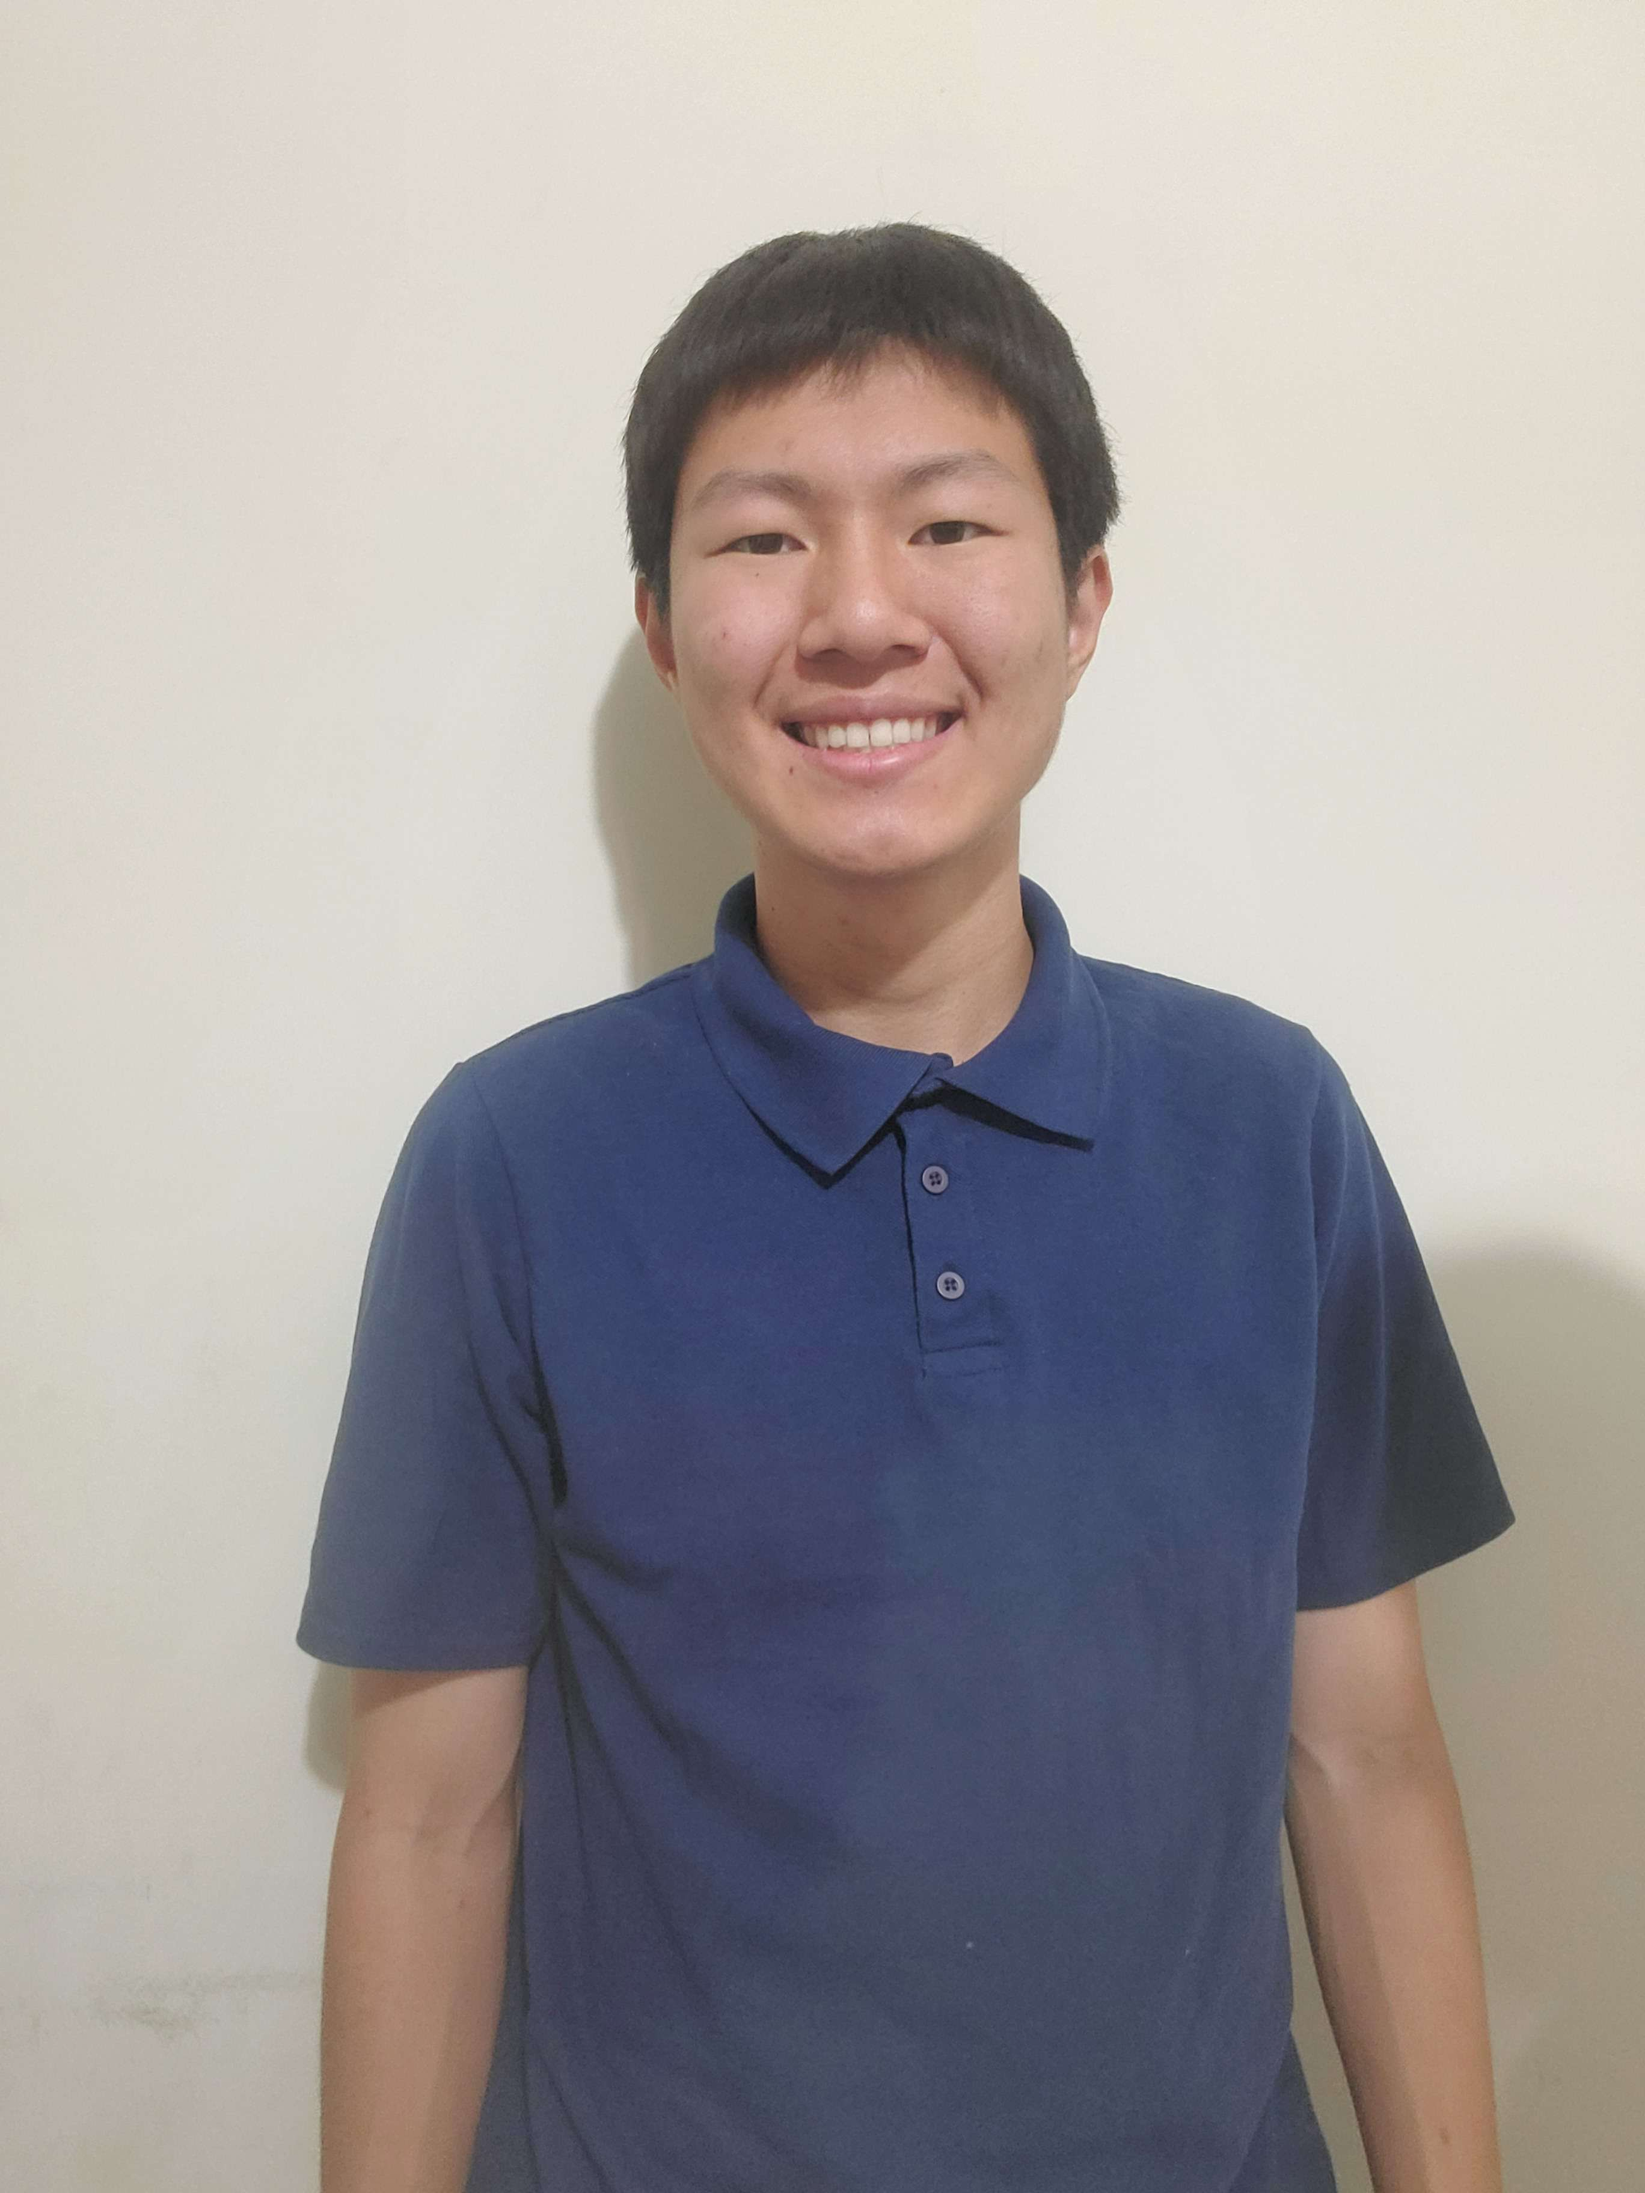
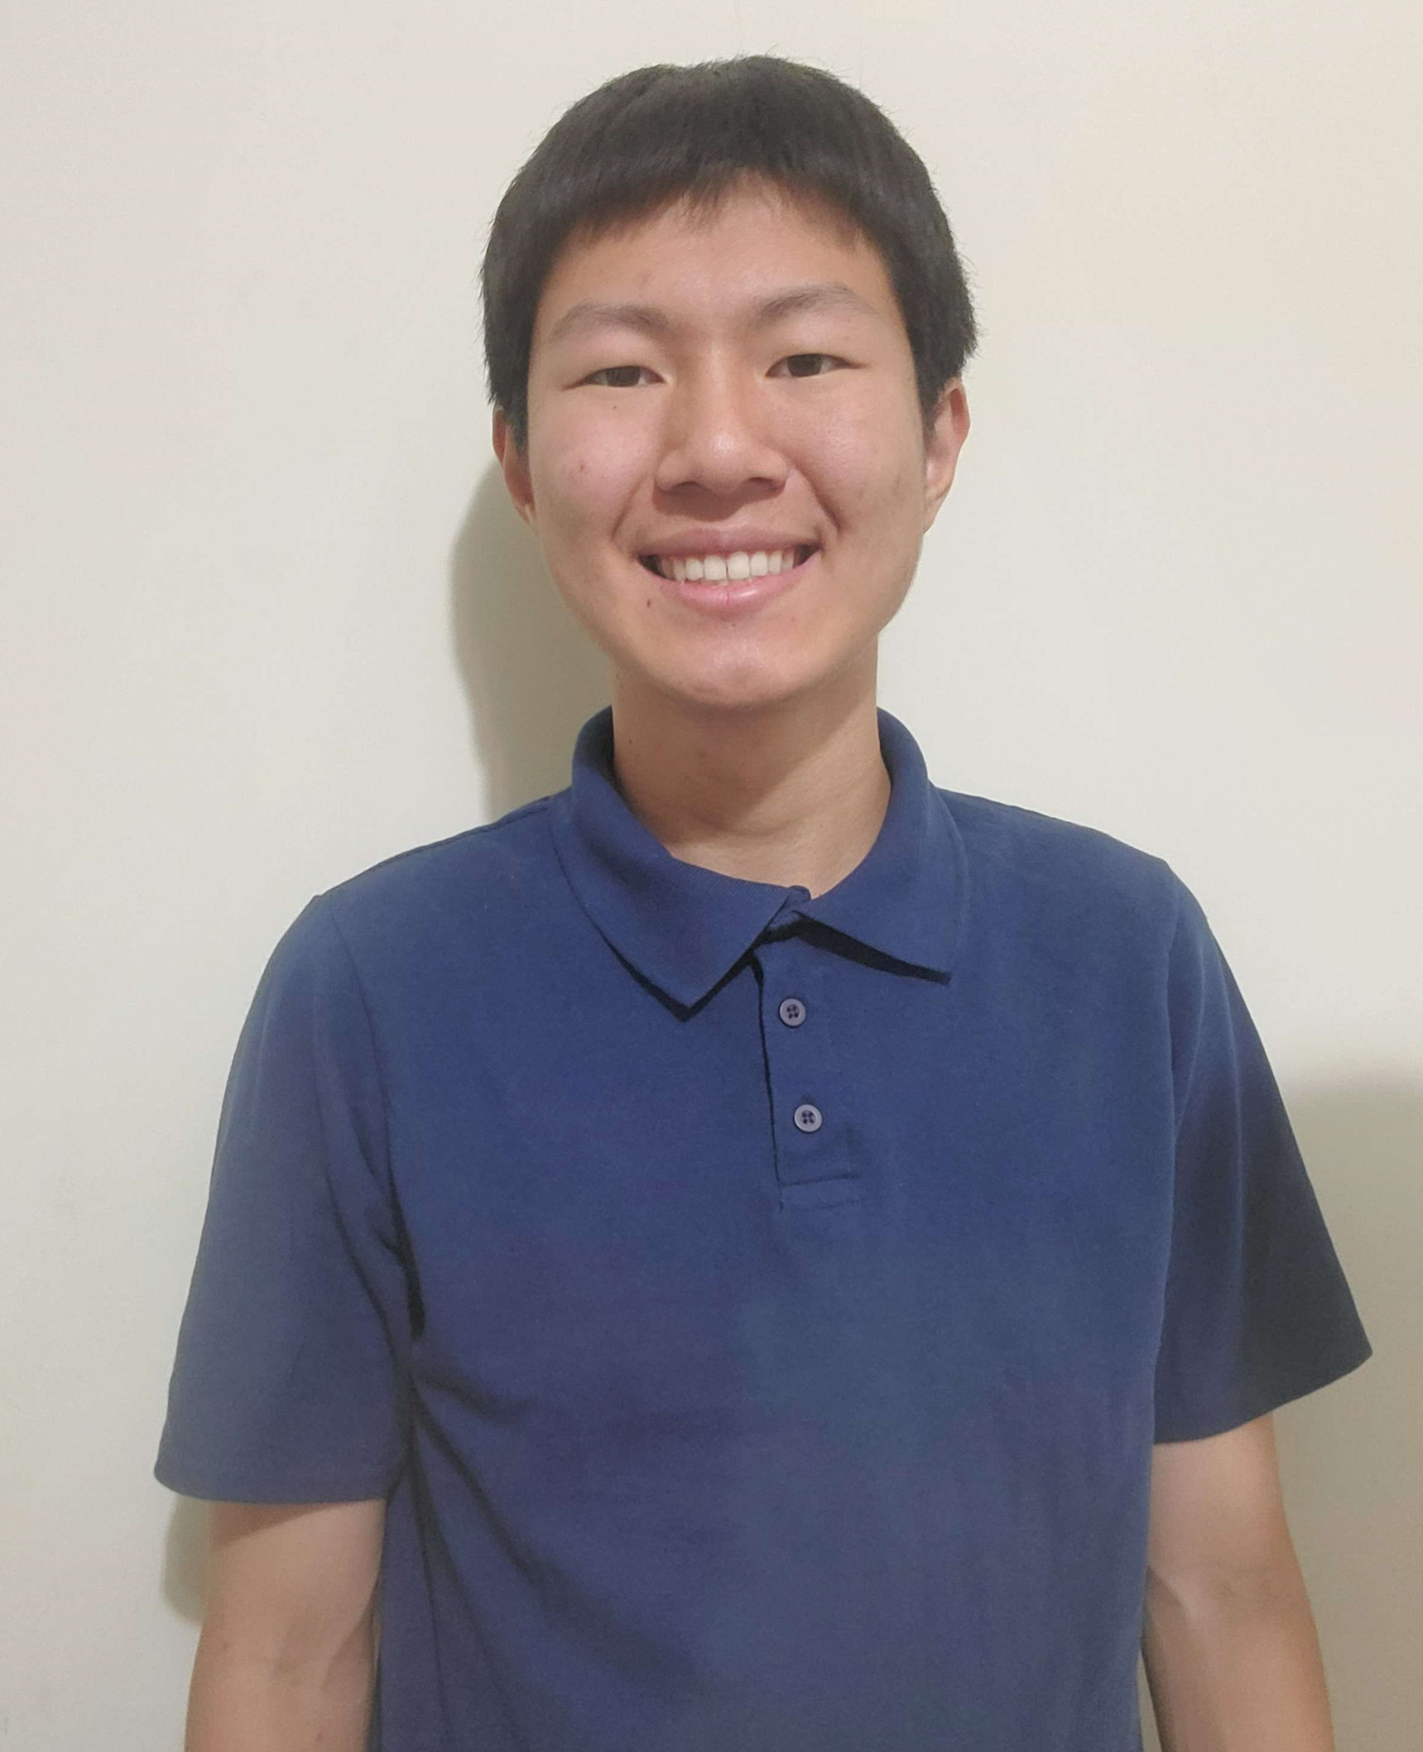
added the loading page and the image waiting thing

diff --git a/src/more-stuff/ScrollHandler.jsx b/src/more-stuff/ScrollHandler.jsx
@@ -1,8 +1,54 @@
-import { useEffect } from 'react';
+import { useEffect, useState } from 'react';
 import { useLocation } from 'react-router-dom';
+import { motion } from 'framer-motion';
 
 const ScrollHandler = ({ checkScrolledStart, setCheckScrolledStart }) => {
   let currentPath = useLocation().pathname;
+  let [finished, setFinished] = useState(true);
+  
+  useEffect(() => {
+    
+    let imageCount = 0;
+    let goal;
+    if(currentPath=='/home') goal=29;
+    if(currentPath=='/about') goal=5;
+    if(currentPath=='/project/secure-website-with-aws-and-cloudflare') goal=12;
+    if(currentPath=='/project/cisco-wlc') goal=13;
+    if(currentPath=='/project/active-directory-and-splunk') goal=12;
+    if(currentPath=='/project/kali-linux-pen-test') goal=10;
+    if(currentPath=='/project/transparency-chat-app') goal=16;
+    if(currentPath=='/project/virtual-dining-restraunt-simulation') goal=9;
+    if(currentPath=='/project/random-password-generator') goal=6;
+    if(currentPath=='/project/weather-app') goal=9;
+    if(currentPath=='/project/quick-quiz') goal=8;
+    if(currentPath=='/project/random-math-problem-generator') goal=10;
+    const timeoutId = setTimeout(() => {
+      if(goal>imageCount){
+        setFinished(false);
+      }
+    }, 300);
+    const handleImageLoad = (event) => {
+      imageCount++;
+      if(imageCount >= goal){
+        console.log('finished',goal)
+        setFinished(true);
+      }
+      console.log(imageCount,goal)
+    };
+
+    const images = document.querySelectorAll('img');
+
+    images.forEach((img) => {
+      img.addEventListener('load', handleImageLoad);
+    });
+
+    return () => {
+      clearTimeout(timeoutId);
+      images.forEach((img) => {
+        img.removeEventListener('load', handleImageLoad);
+      });
+    };
+  }, [currentPath]);
   const handleScroll = () => {
     if (checkScrolledStart !== 2) {
       const scrollTop = window.scrollY;
@@ -69,7 +115,85 @@ const ScrollHandler = ({ checkScrolledStart, setCheckScrolledStart }) => {
     };
   }, [checkScrolledStart, setCheckScrolledStart, currentPath]);
 
-  return null; // This component doesn't render anything
+  return !finished ? <LoadingAnimation /> :  null; // This component doesn't render anything
 };
 
+
+let LoadingAnimation = () => {
+  useEffect(() => {
+    // Disable scrolling on the body and remove scroll bar
+    document.body.style.overflow = 'hidden';
+    document.documentElement.style.overflow = 'hidden';
+
+    // Cleanup function to reset the overflow property when the component unmounts
+    return () => {
+      document.body.style.overflow = 'auto';
+      document.documentElement.style.overflow = 'auto';
+    };
+  }, []);
+
+  const loadingScreenStyle = {
+    display: 'flex',
+    alignItems: 'center',
+    justifyContent: 'center',
+    height: '100vh',
+    fontSize: '4rem',
+    backgroundColor: 'rgba(0, 0, 0, 0.7)',
+    color: 'white',
+  };
+
+  const dotAnimation = {
+    y: ["0rem", "-1rem", "0rem"], // Move up and down
+  };
+
+  return (
+    <motion.div
+      style={loadingScreenStyle}
+      initial={{ opacity: 0 }}
+      animate={{ opacity: 1 }}
+      exit={{ opacity: 0 }}
+    >
+      <span>Loading</span>
+      <motion.span
+        animate={dotAnimation}
+        transition={{
+          duration: 0.5,
+          ease: "easeInOut",
+          repeat: Infinity,
+          repeatDelay: 0.2,
+          delay: 0
+        }}
+        style={{ marginLeft: '0.5rem', display: 'inline-block' }}
+      >
+        .
+      </motion.span>
+      <motion.span
+        animate={dotAnimation}
+        transition={{
+          duration: 0.5,
+          ease: "easeInOut",
+          repeat: Infinity,
+          repeatDelay: 0.2,
+          delay: 0.1
+        }}
+        style={{ marginLeft: '0.5rem', display: 'inline-block' }}
+      >
+        .
+      </motion.span>
+      <motion.span
+        animate={dotAnimation}
+        transition={{
+          duration: 0.5,
+          ease: "easeInOut",
+          repeat: Infinity,
+          repeatDelay: 0.2,
+          delay: 0.2
+        }}
+        style={{ marginLeft: '0.5rem', display: 'inline-block' }}
+      >
+        .
+      </motion.span>
+    </motion.div>
+  );
+};
 export default ScrollHandler;

diff --git a/src/Contents/HomePage.jsx b/src/Contents/HomePage.jsx
@@ -158,30 +158,18 @@ export default function HomePage({ checkScrolledStart, setCheckScrolledStart }) 
           animate={{ opacity: checkScrolledStart === 2 ? 0 : 1 }}
           transition={{ duration: 1, ease: 'easeInOut' }}
         >
-          <img
-            tabIndex={0}
-            onClick={() => window.open('https://www.linkedin.com/in/seon-mo-kim/', '_blank')}
-            src="/linkedIn.svg"
-            alt="LinkedIn"
-          />
-          <img
-            tabIndex={0}
-            onClick={() => window.open('https://mail.google.com/mail/?view=cm&fs=1&to=skimnumber@gmail.com', '_blank')}
-            src="/gmail.svg"
-            alt="Gmail"
-          />
-          <img
-            tabIndex={0}
-            onClick={() => window.open('https://github.com/eronk1/', '_blank')}
-            src="/github.svg"
-            alt="Github"
-          />
-          <img
-            tabIndex={0}
-            onClick={() => window.open('https://www.credly.com/users/seon-kim.37523a11', '_blank')}
-            src="/credly.svg"
-            alt="Credly"
-          />
+          <a href="https://www.linkedin.com/in/seon-mo-kim/" target="_blank" title="https://www.linkedin.com/in/seon-mo-kim/">
+            <img tabIndex={0} src="/linkedIn.svg" alt="LinkedIn" />
+          </a>
+          <a href="https://mail.google.com/mail/?view=cm&fs=1&to=skimnumber@gmail.com" target="_blank" title="https://mail.google.com/mail/?view=cm&fs=1&to=skimnumber@gmail.com">
+            <img tabIndex={0} src="/gmail.svg" alt="Gmail" />
+          </a>
+          <a href="https://github.com/eronk1/" target="_blank" title="https://github.com/eronk1/">
+            <img tabIndex={0} src="/github.svg" alt="Github" />
+          </a>
+          <a href="https://www.credly.com/users/seon-kim.37523a11" target="_blank" title="https://www.credly.com/users/seon-kim.37523a11">
+            <img tabIndex={0} src="/credly.svg" alt="Credly" />
+          </a>
         </motion.div>
       </div>}
       {calculateBoxOpacity()!=0 && <motion.div
@@ -201,10 +189,18 @@ export default function HomePage({ checkScrolledStart, setCheckScrolledStart }) 
         
         <div className={s.footer}>      
           <div className={s.socialPage2Links}>
-            <img tabIndex={0} onClick={()=>window.open('https://www.linkedin.com/in/seon-mo-kim/','_blank')} src="/linkedIn.svg" alt="LinkedIn" />
-            <img tabIndex={0} onClick={()=>window.open('https://mail.google.com/mail/?view=cm&fs=1&to=skimnumber@gmail.com', '_blank')} src="/gmail.svg" alt="Gmail" />
-            <img tabIndex={0} onClick={()=>window.open('https://github.com/eronk1/', '_blank')} src="/github.svg" alt="Github" />
-            <img tabIndex={0} onClick={()=>window.open('https://www.credly.com/users/seon-kim.37523a11', '_blank')} src="/credly.svg" alt="Credly" />
+            <a href="https://www.linkedin.com/in/seon-mo-kim/" target="_blank" title="https://www.linkedin.com/in/seon-mo-kim/">
+              <img tabIndex={0} src="/linkedIn.svg" alt="LinkedIn" />
+            </a>
+            <a href="https://mail.google.com/mail/?view=cm&fs=1&to=skimnumber@gmail.com" target="_blank" title="https://mail.google.com/mail/?view=cm&fs=1&to=skimnumber@gmail.com">
+              <img tabIndex={0} src="/gmail.svg" alt="Gmail" />
+            </a>
+            <a href="https://github.com/eronk1/" target="_blank" title="https://github.com/eronk1/">
+              <img tabIndex={0} src="/github.svg" alt="Github" />
+            </a>
+            <a href="https://www.credly.com/users/seon-kim.37523a11" target="_blank" title="https://www.credly.com/users/seon-kim.37523a11">
+              <img tabIndex={0} src="/credly.svg" alt="Credly" />
+            </a>
           </div>
         </div>
       </motion.div>}

diff --git a/src/Contents/EndSec.jsx b/src/Contents/EndSec.jsx
@@ -4,10 +4,18 @@ export default function EndSec() {
   return (
     <div>
         <div className={s.socialLinks}>
-          <img tabIndex={0} onClick={()=>window.open('https://www.linkedin.com/in/seon-mo-kim/','_blank')} src="/linkedIn.svg" alt="LinkedIn" />
-          <img tabIndex={0} onClick={()=>window.open('https://mail.google.com/mail/?view=cm&fs=1&to=skimnumber@gmail.com', '_blank')} src="/gmail.svg" alt="Gmail" />
-          <img tabIndex={0} onClick={()=>window.open('https://github.com/eronk1/', '_blank')} src="/github.svg" alt="Github" />
-          <img tabIndex={0} onClick={()=>window.open('https://www.credly.com/users/seon-kim.37523a11', '_blank')} src="/credly.svg" alt="Credly" />
+          <a href="https://www.linkedin.com/in/seon-mo-kim/" target="_blank" title="https://www.linkedin.com/in/seon-mo-kim/">
+            <img tabIndex={0} src="/linkedIn.svg" alt="LinkedIn" />
+          </a>
+          <a href="https://mail.google.com/mail/?view=cm&fs=1&to=skimnumber@gmail.com" target="_blank" title="https://mail.google.com/mail/?view=cm&fs=1&to=skimnumber@gmail.com">
+            <img tabIndex={0} src="/gmail.svg" alt="Gmail" />
+          </a>
+          <a href="https://github.com/eronk1/" target="_blank" title="https://github.com/eronk1/">
+            <img tabIndex={0} src="/github.svg" alt="Github" />
+          </a>
+          <a href="https://www.credly.com/users/seon-kim.37523a11" target="_blank" title="https://www.credly.com/users/seon-kim.37523a11">
+            <img tabIndex={0} src="/credly.svg" alt="Credly" />
+          </a>
         </div>
     </div>
   )

diff --git a/src/other-stuff-in-headers/About.jsx b/src/other-stuff-in-headers/About.jsx
@@ -12,8 +12,8 @@ export default function About() {
             <div className={s.thirdSection}>
                 <h2 className={s.secondHeader}>Greetings!</h2>
                 <div className={s.actualAboutMeParent}>
-                  <div className={s.actualAboutMe}>I'm Seon, but people tend to call me Eron. I was born and raised in southern California in a Korean family. I like to do various physical activities such as running and soccer with my friends, as well as discussing and learning about historical events.</div>
-                  <div className={s.actualAboutMe}>My passion for technology formed in 2021 when I first discovered web development. Two years later, exploring various areas in IT became my primary interest.</div>
+                  <div className={s.actualAboutMe}>I'm Seon, but people tend to call me Eron. I was born and raised in southern California in a Korean family. I like to do various physical activities such as running and soccer with my friends, as well as discussing and learning history.</div>
+                  <div className={s.actualAboutMe}>My passion for technology formed in 2021 when I first discovered web development. Two years later, exploring various areas in IT became my primary interest. In the present, IT still remains as my primary interest.</div>
                   <div className={s.actualAboutMe}>Exploring and mastering the endless possibilities of technology constantly captivates me. I'm currently looking for an IT job, so if you're interested, I'd be happy to hear from you.</div>
                 </div>
             </div>

diff --git a/src/Contents/ITProjects.jsx b/src/Contents/ITProjects.jsx
@@ -36,8 +36,8 @@ export default function ITProjects() {
         <p className={s.ITProjectsHeader}>IT Experiences</p>
         <div className={s.projectsParent}>
             <div className={s.projectColumn}>
-                <ProjectSec projectContent={ciscoWLC} />
                 <ProjectSec projectContent={aws} />
+                <ProjectSec projectContent={ciscoWLC} />
             </div>
             <div className={s.projectColumn}>
                 <ProjectSec projectContent={activeDirectory} />

diff --git a/src/Contents/HomePage.module.css b/src/Contents/HomePage.module.css
@@ -112,7 +112,7 @@
   bottom: 0;
   width: 100%;
   display: grid;
-  height: 7rem;
+  height: 10vh;
   background: rgba(0, 0, 0, 0.5);
   place-content: center;
 }
@@ -123,12 +123,11 @@
     flex-direction: row;
     justify-content: space-between;
     margin: 0 auto;
-    background: rgba(0, 0, 0, 0.5);
 }
 
 .socialPage2Links img{
-  width: 2.5rem;
-  height: 2.5rem;
+  width: 5vh;
+  height: 5vh;
   margin-right: auto;
   transition: 0.1s;
   filter: brightness(90%);

diff --git a/src/other-stuff-in-headers/About.module.css b/src/other-stuff-in-headers/About.module.css
@@ -1,5 +1,5 @@
 .AboutParent{
-    --content-width: 80rem;
+    --content-width: 74rem;
     --individual-component-width-second-section: 32rem;
     
 }
@@ -25,7 +25,7 @@
     margin: auto 0;
 }
 .myPic{
-    width: calc(1.2*var(--individual-component-width-second-section));
+    width: calc(1.1*var(--individual-component-width-second-section));
     border-radius: 0.5rem;
 }
 .secondHeader{

diff --git a/src/App.jsx b/src/App.jsx
@@ -16,7 +16,7 @@ import About from './other-stuff-in-headers/About.jsx'
 
 function App() {
   const [checkScrolledStart, setCheckScrolledStart] = useState(1);
-  
+
   return (
     <Router>
       {/* <UseScrollRestoration /> */}
